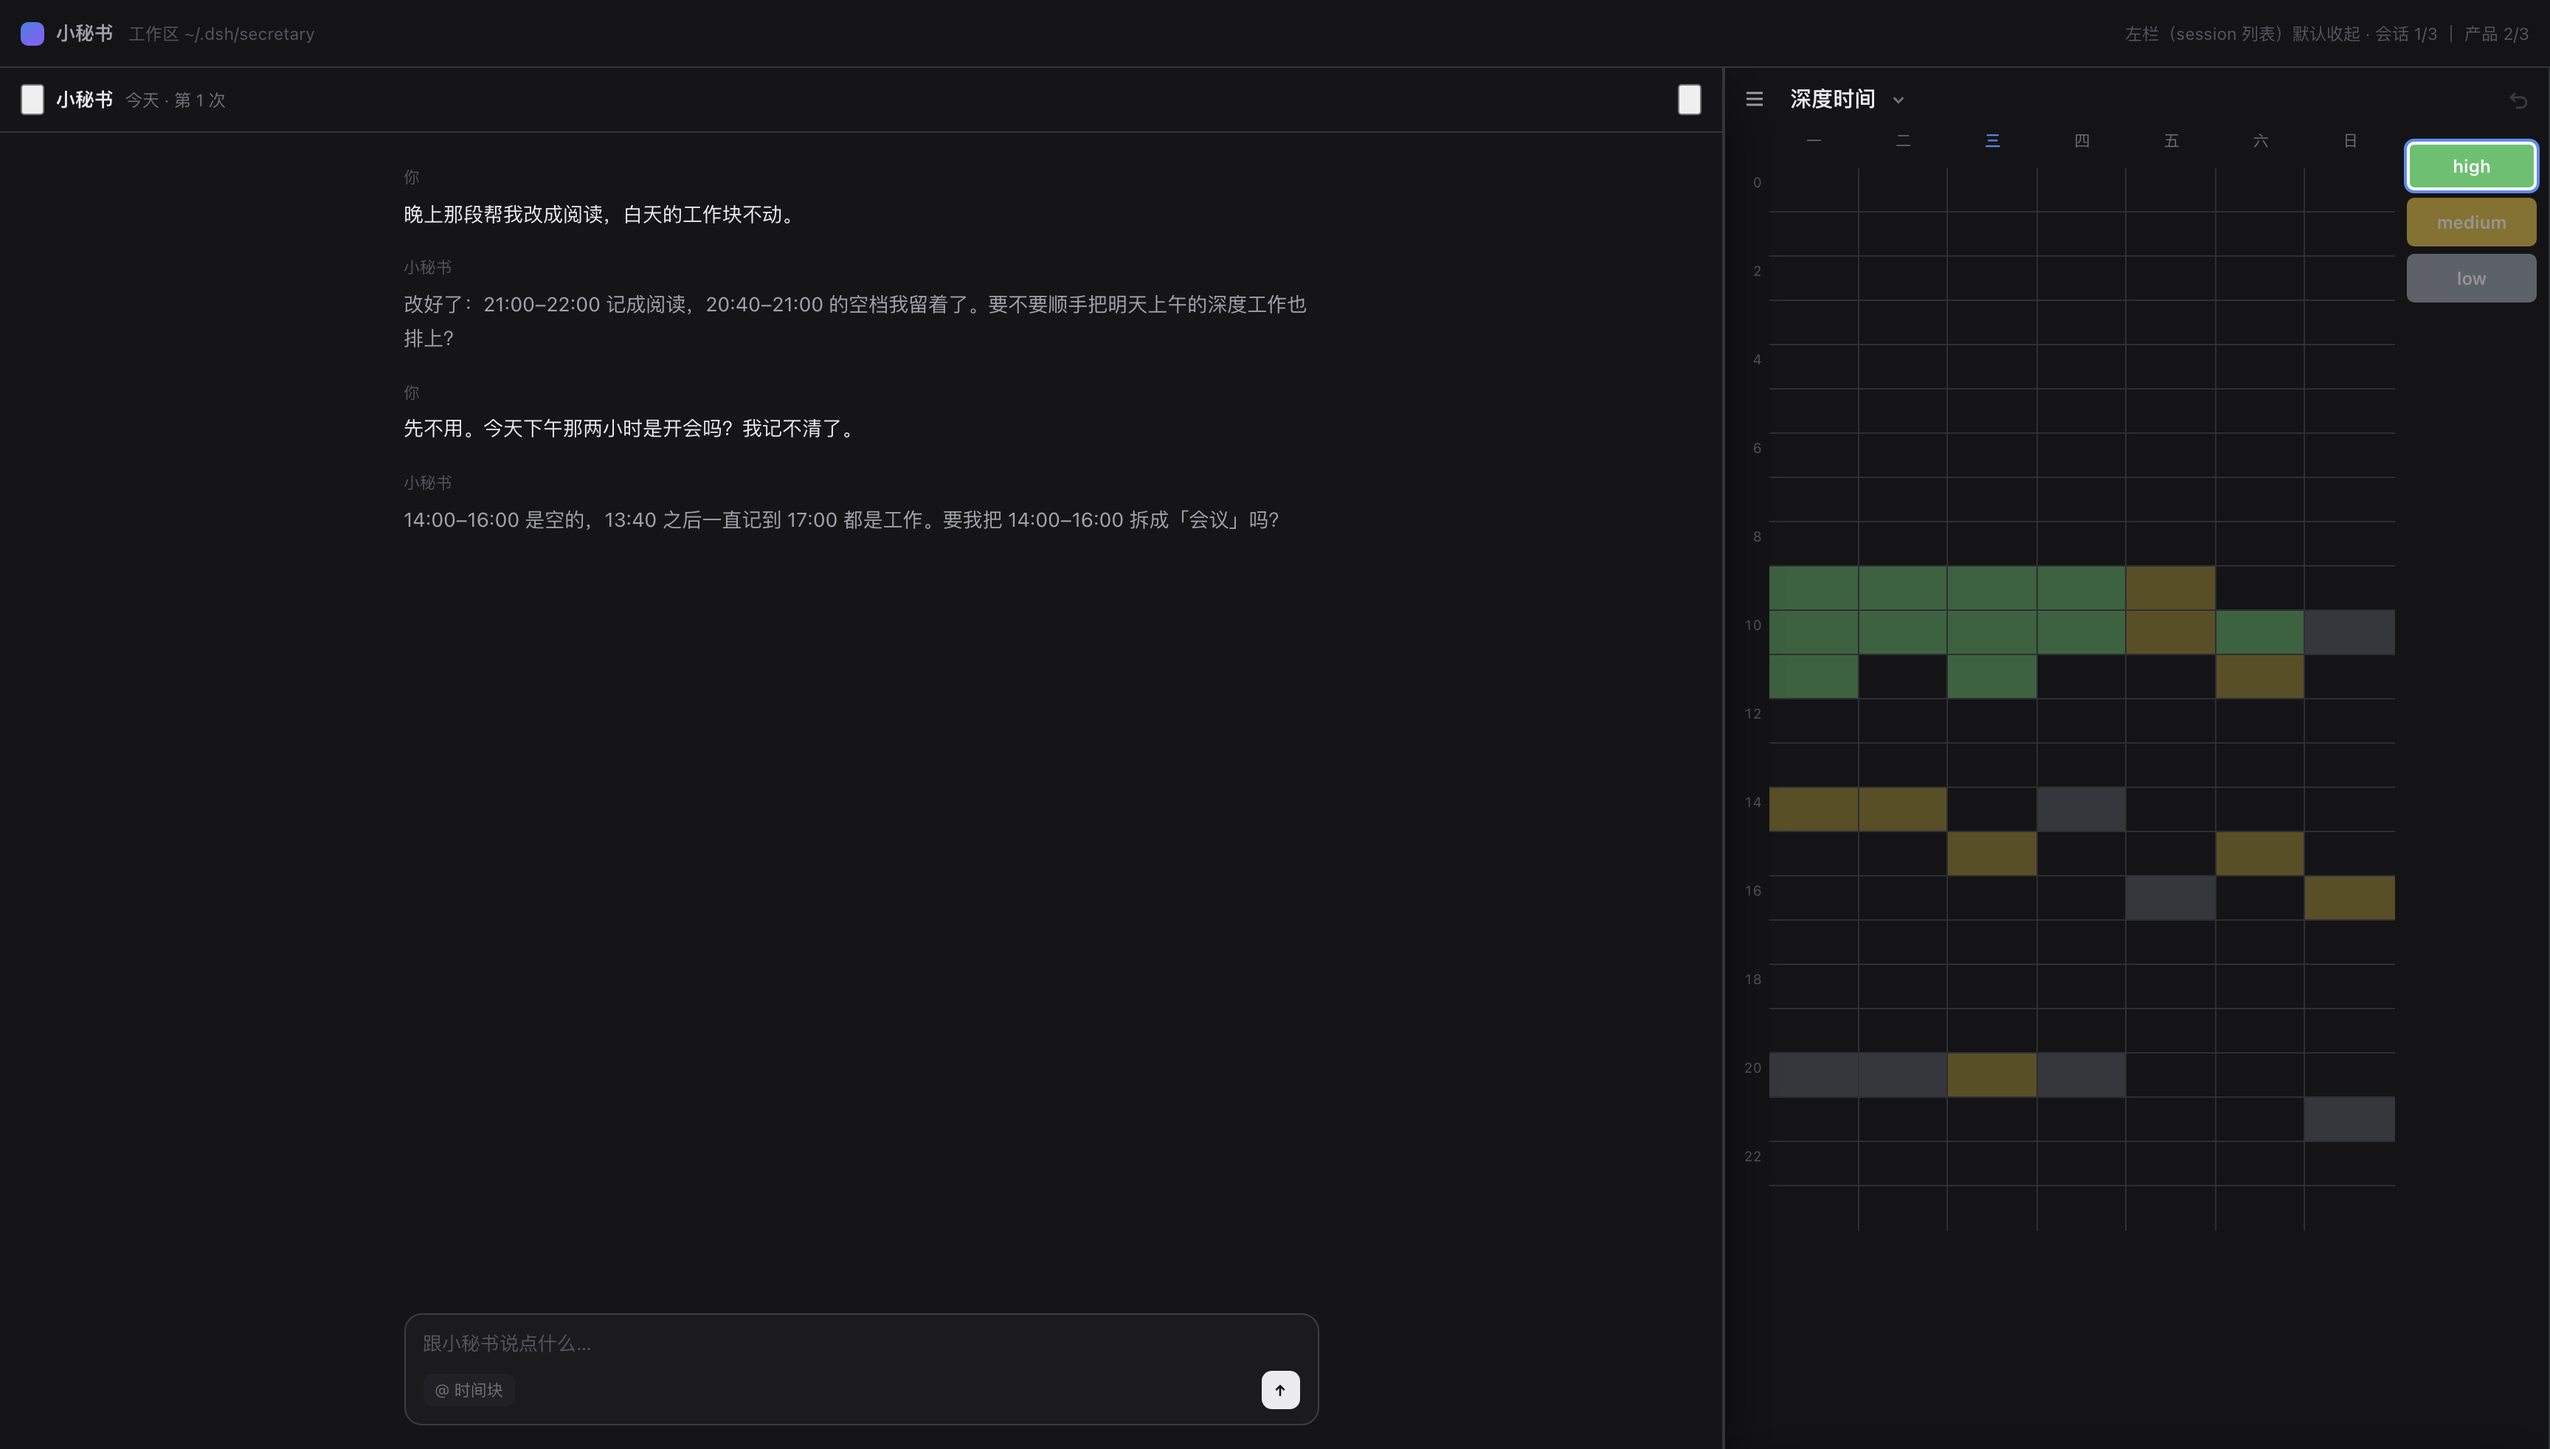
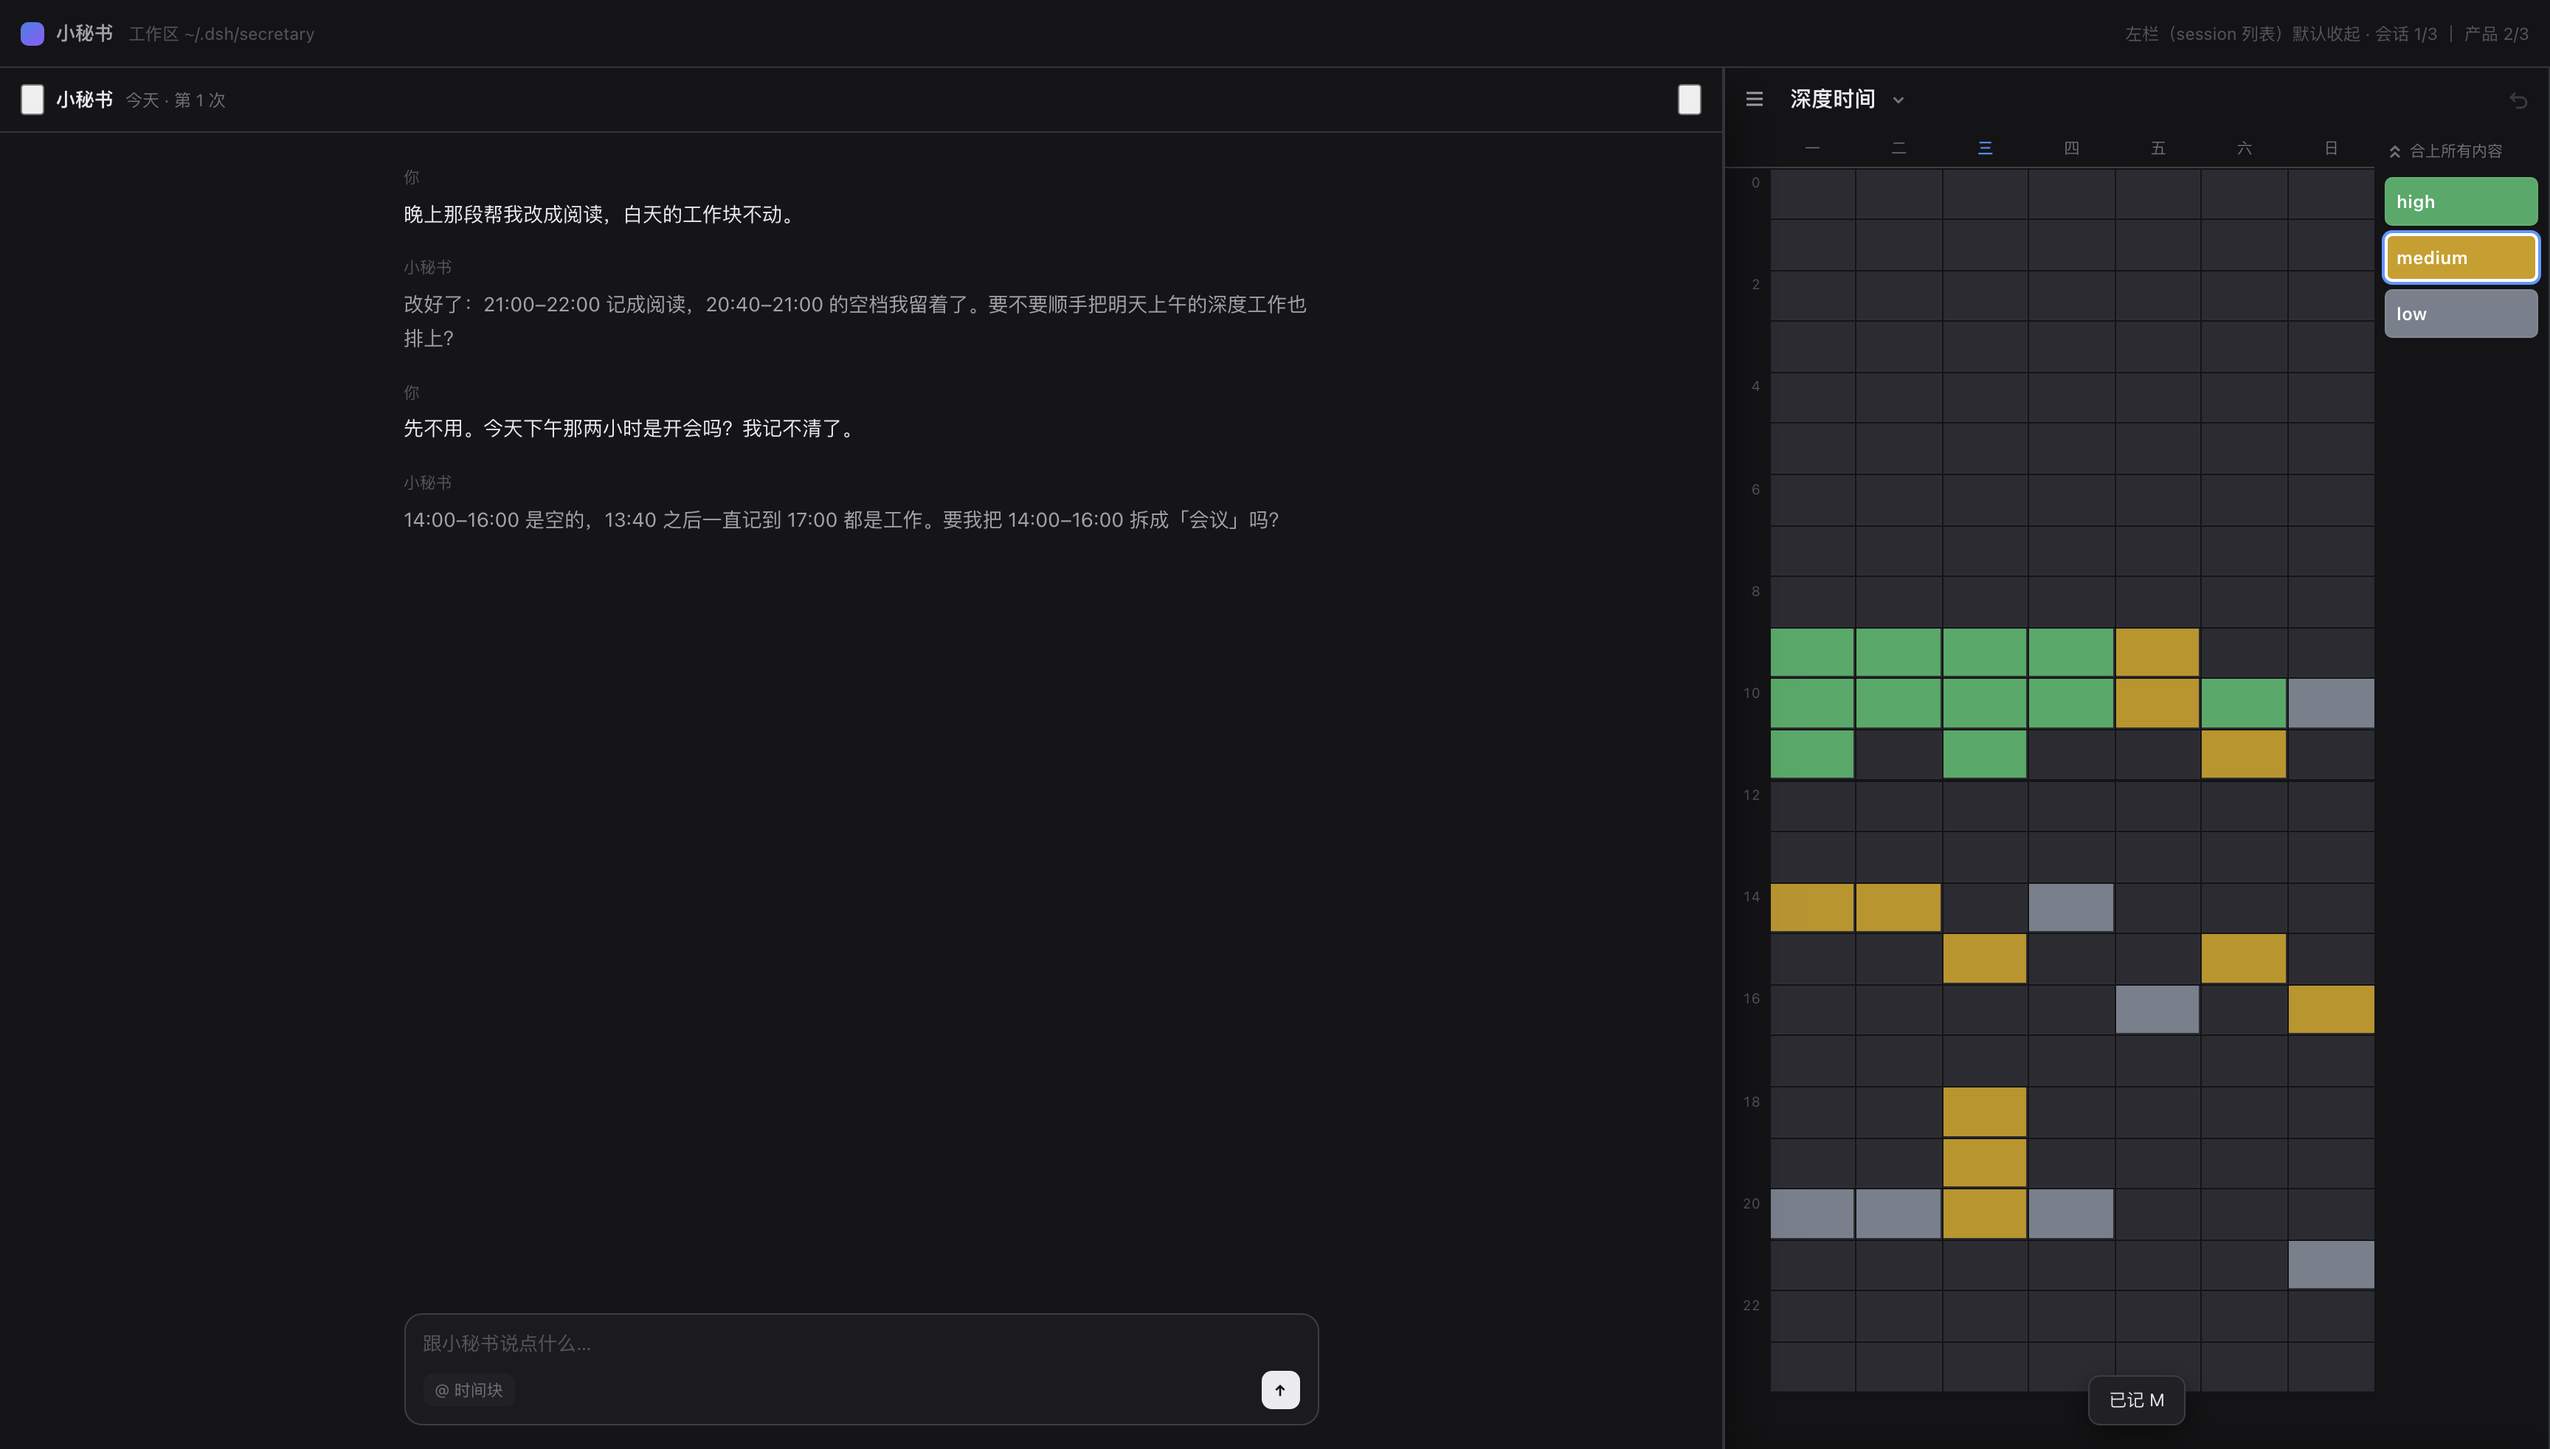
design: deep time uses the same select-then-assign model as the time grid

Changed region(s): [[0.6875, 0.0932, 1.0, 0.9628]]

diff --git a/design/time-block-rail.html b/design/time-block-rail.html
@@ -452,6 +452,20 @@ body{font:14px/1.5 -apple-system,BlinkMacSystemFont,"SF Pro Text","PingFang SC",
 .deep-levels .lv.on{opacity:1;box-shadow:inset 0 0 0 2px #fff,0 0 0 2px var(--accent)}
 .deep-levels .note{margin-top:auto;font-size:10.5px;color:var(--txt-4);line-height:1.6;padding:0 2px}
 
+
+/* 深度时间：和时间块同一套骨架（左刻度 + 格阵 + 右侧画笔列 + 底栏） */
+.view[data-view="deep"]{flex-direction:column}
+.deep-head{flex:none;height:26px;display:flex;padding-left:30px;border-bottom:1px solid var(--line-2)}
+.deep-head .d{flex:1;display:grid;place-items:center;font-size:10.5px;color:var(--txt-3)}
+.deep-head .d.today{color:var(--accent);font-weight:600}
+.deep-body{flex:1;min-height:0;display:flex;overflow:hidden}
+.deep-hours{width:30px;flex:none;position:relative}
+.deep-hours span{position:absolute;right:6px;font-size:9.5px;color:var(--txt-4);font-variant-numeric:tabular-nums}
+.deep-cols{flex:1;display:flex;min-width:0;position:relative}
+.deep-col{flex:1;min-width:0;position:relative}
+.hc{position:absolute;left:0;right:0;border:0;background:var(--cell);cursor:crosshair}
+.hc.filled{background:var(--deep-c)}
+
 </style>
 </head>
 <body><div class="stage">
@@ -568,9 +582,27 @@ body{font:14px/1.5 -apple-system,BlinkMacSystemFont,"SF Pro Text","PingFang SC",
 
         <!-- 深度时间：7×24 周模板 -->
         <section class="view" data-view="deep">
-          <div class="deep">
-            <div class="deep-grid" id="deepGrid"></div>
-            <aside class="deep-levels" id="deepLevels"></aside>
+          <div class="tb">
+            <div class="tb-main">
+              <div class="deep-head" id="deepHead"></div>
+              <div class="deep-body" id="deepBody"></div>
+            </div>
+            <aside class="shelf" id="deepShelf">
+              <button class="shelf-head" id="deepShelfHead">
+                <svg viewBox="0 0 12 12" fill="none" stroke="currentColor" stroke-width="1.5"><path d="M3 5.2L6 2.4l3 2.8M3 9.5L6 6.7l3 2.8"/></svg>
+                <span>合上所有内容</span>
+              </button>
+              <div class="shelf-list" id="deepLevels"></div>
+            </aside>
+          </div>
+          <div class="status" id="deepStatus">
+            <span id="deepStatusText"></span>
+            <span class="grow"></span>
+            <button class="sb" id="deepClear">不选</button>
+            <button class="sb erase" id="deepErase">
+              <svg viewBox="0 0 16 16" fill="none" stroke="currentColor" stroke-width="1.4"><path d="M5.5 3h7v9h-7l-3.5-4.5z"/><path d="M8 6l3 3M11 6l-3 3"/></svg>
+              橡皮
+            </button>
           </div>
         </section>
 
@@ -1247,15 +1279,13 @@ function renderInsp() {
 
 
 
-/* ============================ 深度时间：7×24 周模板 ============================ */
+/* ============================ 深度时间：和时间块完全同一套交互 ============================ */
 const LEVELS = [
-  { id: 'H', name: 'high', color: '#6fbf73' },
-  { id: 'M', name: 'medium', color: '#e0c04a' },
-  { id: 'L', name: 'low', color: '#9aa0ac' },
+  { id: 'H', name: 'high', color: '#5aa86a' },
+  { id: 'M', name: 'medium', color: '#b99530' },
+  { id: 'L', name: 'low', color: '#79808c' },
 ];
-const DEEP_ROW = 30;
 const deep = new Map();
-// 预置一个还算像样的基础周
 [[1, 9, 'H'], [1, 10, 'H'], [1, 11, 'H'], [1, 14, 'M'], [1, 20, 'L'],
  [2, 9, 'H'], [2, 10, 'H'], [2, 14, 'M'], [2, 20, 'L'],
  [3, 9, 'H'], [3, 10, 'H'], [3, 11, 'H'], [3, 15, 'M'], [3, 20, 'M'],
@@ -1265,84 +1295,136 @@ const deep = new Map();
  [7, 10, 'L'], [7, 16, 'M'], [7, 21, 'L']].forEach(([d, h, v]) => deep.set(`${d}-${h}`, v));
 
 let deepLevel = 'H';
+let deepRowH = 30;
+const deepSel = new Set();
 let deepDrag = null;
 
+function deepColor(id) { return (LEVELS.find(l => l.id === id) || {}).color || 'transparent'; }
+
 function renderDeep() {
-  const host = $('#deepGrid');
-  if (!host) return;
-  document.documentElement.style.setProperty('--deep-row', `${DEEP_ROW}px`);
+  const headHost = $('#deepHead'), bodyHost = $('#deepBody');
+  if (!headHost || !bodyHost) return;
   const todayCol = new Date().getDay() === 0 ? 7 : new Date().getDay();
-  host.innerHTML = `<div class="deep-head">${['一', '二', '三', '四', '五', '六', '日']
-    .map((n, i) => `<div class="d${i + 1 === todayCol ? ' today' : ''}">${n}</div>`).join('')}</div>`;
-  const body = document.createElement('div');
-  body.className = 'deep-body';
-  const hours = document.createElement('div');
-  hours.className = 'deep-hours';
-  for (let h = 0; h < 24; h++) {
-    const s = document.createElement('span');
-    s.style.top = `${h * DEEP_ROW + 3}px`;
-    s.textContent = h % 2 === 0 ? `${h}` : '';
-    hours.appendChild(s);
-  }
-  const cols = document.createElement('div');
-  cols.className = 'deep-cols';
-  for (let d = 1; d <= 7; d++) {
-    const col = document.createElement('div');
-    col.className = 'deep-col';
-    for (let h = 0; h < 24; h++) {
-      const cell = document.createElement('div');
-      cell.className = 'hc ' + (deep.get(`${d}-${h}`) || '');
-      cell.dataset.k = `${d}-${h}`;
-      col.appendChild(cell);
-    }
-    cols.appendChild(col);
-  }
-  body.append(hours, cols);
-  host.appendChild(body);
-  renderLevels();
+  headHost.innerHTML = ['一', '二', '三', '四', '五', '六', '日']
+    .map((n, i) => `<div class="d${i + 1 === todayCol ? ' today' : ''}">${n}</div>`).join('');
+
+  const available = bodyHost.clientHeight - 2;
+  deepRowH = Math.max(16, Math.min(44, available / 24));
+
+  const hours = `<div class="deep-hours">${Array.from({ length: 24 }, (_, h) =>
+    `<span style="top:${h * deepRowH + 3}px">${h % 2 === 0 ? h : ''}</span>`).join('')}</div>`;
+  const cols = Array.from({ length: 7 }, (_, ci) => {
+    const d = ci + 1;
+    const cells = Array.from({ length: 24 }, (_, h) => {
+      const level = deep.get(`${d}-${h}`);
+      const top = h * deepRowH + 0.5, height = deepRowH - 1;
+      const style = `top:${top}px;height:${height}px;left:0.5px;right:0.5px;` +
+        (level ? `background:${deepColor(level)};` : '');
+      return `<div class="hc${level ? ' filled' : ''}" data-k="${d}-${h}" style="${style}"></div>`;
+    }).join('');
+    return `<div class="deep-col" data-d="${d}">${cells}</div>`;
+  }).join('');
+  bodyHost.innerHTML = hours + `<div class="deep-cols">${cols}</div>`;
+  renderDeepLevels();
+  renderDeepSelection();
+  renderDeepStatus();
 }
 
-function renderLevels() {
+function renderDeepLevels() {
   const host = $('#deepLevels');
   if (!host) return;
   host.innerHTML = '';
   LEVELS.forEach(l => {
     const b = document.createElement('button');
-    b.className = 'lv' + (deepLevel === l.id ? ' on' : '');
+    b.className = 'cat' + (deepLevel === l.id ? ' on' : '');
     b.style.background = l.color;
     b.textContent = l.name;
-    b.addEventListener('click', () => { deepLevel = l.id; renderLevels(); });
+    b.addEventListener('click', () => { deepLevel = l.id; assignDeep(); });
     host.appendChild(b);
   });
-
 }
 
-function paintDeep(k, level) {
-  const cur = deep.get(k);
-  const next = cur === level ? null : level;
-  if (next) deep.set(k, next); else deep.delete(k);
-  const cell = document.querySelector(`.deep-col .hc[data-k="${k}"]`);
-  if (cell) cell.className = 'hc ' + (next || '');
+function renderDeepSelection() {
+  document.querySelectorAll('.deep-body .selbox').forEach(el => el.remove());
+  deepSel.forEach(k => {
+    const [d, h] = k.split('-').map(Number);
+    const col = document.querySelector(`.deep-col[data-d="${d}"]`);
+    if (!col) return;
+    const box = document.createElement('div');
+    box.className = 'selbox';
+    box.style.left = '0.5px';
+    box.style.right = '0.5px';
+    box.style.top = `${h * deepRowH + 0.5}px`;
+    box.style.height = `${deepRowH - 1}px`;
+    box.innerHTML = '<i style="left:0;width:100%"><svg viewBox="0 0 12 12" fill="none" stroke="currentColor" stroke-width="2.4"><path d="M2.5 6.4l2.3 2.3L9.5 3.7"/></svg></i>';
+    col.appendChild(box);
+  });
 }
+
+function renderDeepStatus() {
+  const bar = $('#deepStatus');
+  if (!bar) return;
+  if (!deepSel.size) { bar.classList.remove('on'); return; }
+  bar.classList.add('on');
+  $('#deepStatusText').innerHTML = `选择了 <b>${deepSel.size}</b> 格`;
+}
+
+function assignDeep() {
+  if (!deepSel.size) { say('先在格子上选一段，再点档位'); return; }
+  deepSel.forEach(k => deep.set(k, deepLevel));
+  deepSel.clear();
+  renderDeep();
+  say(`已记 ${deepLevel}`);
+}
+function eraseDeep() {
+  if (!deepSel.size) return;
+  deepSel.forEach(k => deep.delete(k));
+  deepSel.clear();
+  renderDeep();
+}
+
 function bindDeep() {
-  const host = $('#deepGrid');
+  const host = $('#deepBody');
   if (!host) return;
   host.addEventListener('pointerdown', e => {
     const cell = e.target.closest('.hc');
     if (!cell) return;
-    deepDrag = { start: deep.get(cell.dataset.k), level: deepLevel, active: true };
-    paintDeep(cell.dataset.k, deepDrag.level);
+    const k = cell.dataset.k;
+    deepDrag = { start: k, moved: false, was: deepSel.has(k) };
+    deepSel.add(k);
+    renderDeepSelection(); renderDeepStatus();
     e.preventDefault();
   });
-  host.addEventListener('pointerover', e => {
+  window.addEventListener('pointermove', e => {
     if (!deepDrag) return;
     const cell = e.target.closest('.hc');
-    if (cell) paintDeep(cell.dataset.k, deepDrag.level);
+    if (!cell) return;
+    deepDrag.moved = true;
+    const [d1, h1] = deepDrag.start.split('-').map(Number);
+    const [d2, h2] = cell.dataset.k.split('-').map(Number);
+    if (d1 !== d2) return;
+    deepSel.clear();
+    for (let h = Math.min(h1, h2); h <= Math.max(h1, h2); h++) deepSel.add(`${d1}-${h}`);
+    renderDeepSelection(); renderDeepStatus();
   });
-  window.addEventListener('pointerup', () => { deepDrag = null; });
+  window.addEventListener('pointerup', () => {
+    if (!deepDrag) return;
+    if (!deepDrag.moved && deepDrag.was) {
+      deepSel.delete(deepDrag.start);
+      renderDeepSelection(); renderDeepStatus();
+    }
+    deepDrag = null;
+  });
 }
 bindDeep();
-
+$('#deepClear')?.addEventListener('click', () => { deepSel.clear(); renderDeepSelection(); renderDeepStatus(); });
+$('#deepErase')?.addEventListener('click', eraseDeep);
+$('#deepShelfHead')?.addEventListener('click', () => {
+  $('#deepShelf')?.classList.toggle('mini');
+});
+window.addEventListener('resize', () => {
+  if (document.querySelector('.view[data-view="deep"]')?.classList.contains('on')) renderDeep();
+});
 /* ============================ 编辑浮层 ============================ */
 function openSheet(id) {
   const r = state.records.find(x => x.id === id);
